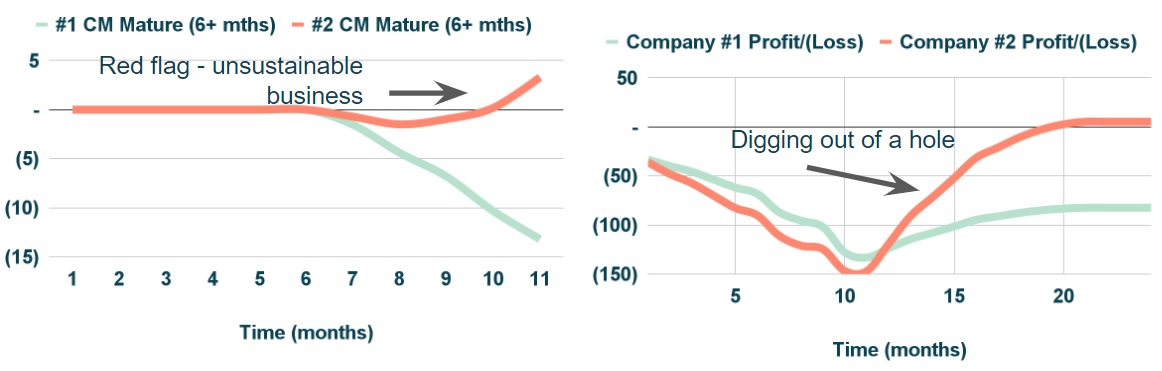
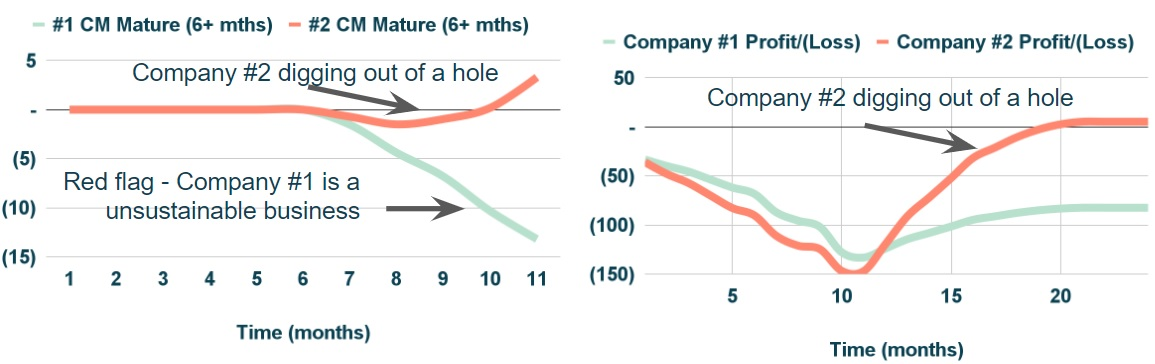
done

diff --git a/POSTS/DOT3.html b/POSTS/DOT3.html
@@ -148,12 +148,12 @@
 
                         </p> 
                         <a ><img class="img-fluid" src="../DOTFILES/DOT3/img/D3P5.jpg" alt="..." /></a>
-                        <span class="caption text-muted">Figure 5: Example of digging out of hole for Company Two (RHS).</span>
+                        <span class="caption text-muted">Figure 5: Company Two is digging out of a hole.</span>
                         <!-- SECTION 1-->
                         <h2 class="section-heading">Conclusion</h2>
                         <p align="justify">
                             Contribution margin on a per unit basis is a very powerful way to think about a Company's profitability.
-                            It simplifies everything and makes it easier to have key insights about a business. <br> More to come on this 
+                            It simplifies everything and makes it easier to have key insights about a business. More to come on this 
                             in future notes.
                          </p>  
 
